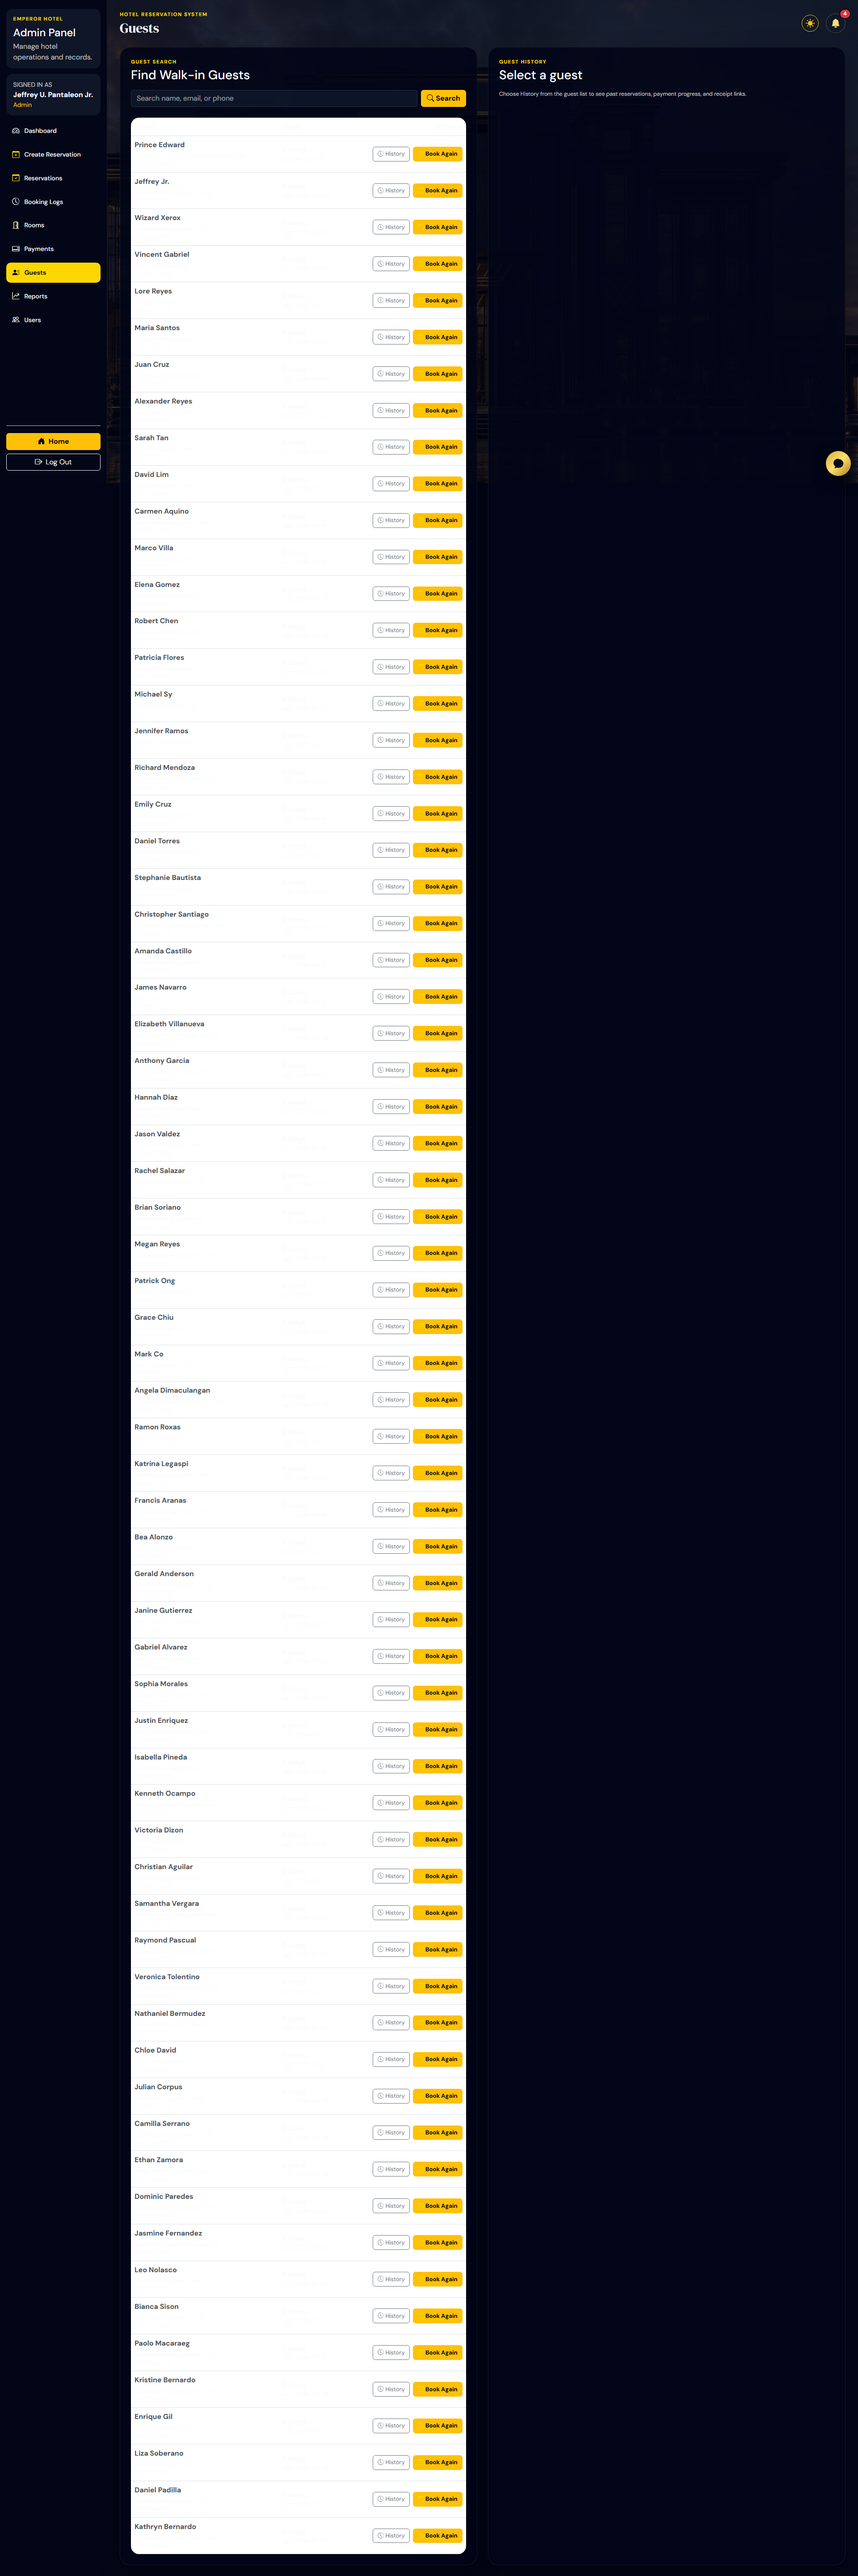
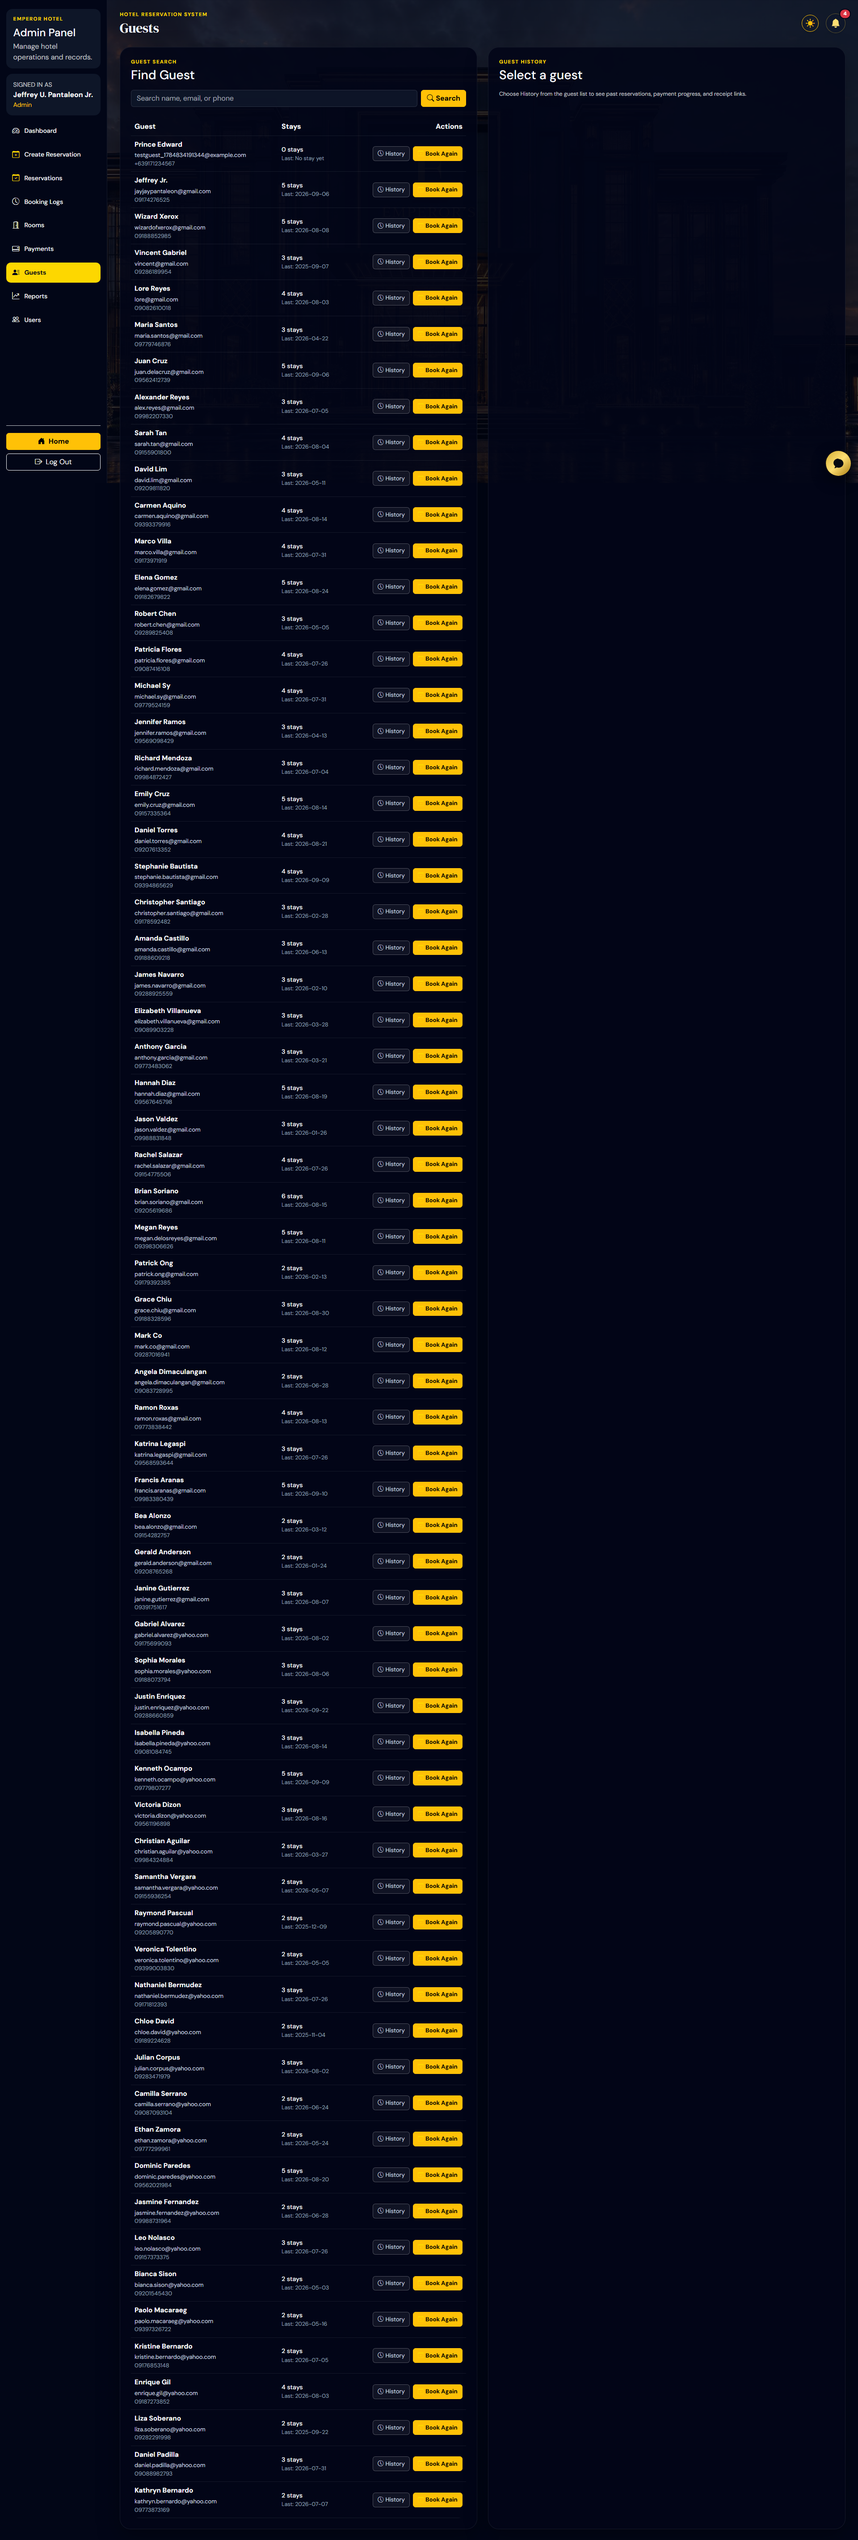
fix: remove :focus from sidebar yellow background, rename heading to Find Guest, and fix Dark Mode table text contrast

diff --git a/public/assets/css/admin/guests.css b/public/assets/css/admin/guests.css
@@ -4,16 +4,58 @@
     align-items: stretch;
 }
 
+.guest-name-text {
+    font-weight: 600;
+    font-size: 0.95rem;
+}
+
 .guest-email-text {
     word-break: break-all;
     font-size: 0.82rem;
     line-height: 1.35;
-    opacity: 0.85;
 }
 
 .guest-phone-text {
     font-size: 0.8rem;
-    opacity: 0.75;
+}
+
+.guest-stay-text {
+    font-weight: 500;
+    font-size: 0.88rem;
+}
+
+.guest-stay-subtext {
+    font-size: 0.78rem;
+}
+
+/* Dark Mode Typography (Default) */
+.guest-name-text,
+.guest-stay-text {
+    color: #f8fafc;
+}
+
+.guest-email-text {
+    color: #cbd5e1;
+}
+
+.guest-phone-text,
+.guest-stay-subtext {
+    color: #94a3b8;
+}
+
+/* Light Mode Typography */
+body.light-mode .guest-name-text,
+body.light-mode .guest-stay-text {
+    color: #0f172a !important;
+}
+
+body.light-mode .guest-email-text {
+    color: #475569 !important;
+}
+
+body.light-mode .guest-phone-text,
+body.light-mode .guest-stay-subtext {
+    color: #64748b !important;
 }
 
 .guest-actions-cell {
@@ -38,26 +80,26 @@
 }
 
 /* Light & Dark Mode Compatibility for Action Buttons */
-[data-bs-theme="light"] .guest-actions-group .btn-outline-secondary {
-    color: #475569;
-    border-color: #cbd5e1;
-    background-color: #f8fafc;
+body.light-mode .guest-actions-group .btn-outline-secondary {
+    color: #475569 !important;
+    border-color: #cbd5e1 !important;
+    background-color: #f8fafc !important;
 }
 
-[data-bs-theme="light"] .guest-actions-group .btn-outline-secondary:hover {
-    color: #0f172a;
-    border-color: #94a3b8;
-    background-color: #e2e8f0;
+body.light-mode .guest-actions-group .btn-outline-secondary:hover {
+    color: #0f172a !important;
+    border-color: #94a3b8 !important;
+    background-color: #e2e8f0 !important;
 }
 
-[data-bs-theme="dark"] .guest-actions-group .btn-outline-secondary {
+.guest-actions-group .btn-outline-secondary {
     color: #cbd5e1;
-    border-color: rgba(255, 255, 255, 0.2);
-    background-color: rgba(255, 255, 255, 0.05);
+    border-color: rgba(255, 255, 255, 0.25);
+    background-color: rgba(255, 255, 255, 0.06);
 }
 
-[data-bs-theme="dark"] .guest-actions-group .btn-outline-secondary:hover {
+.guest-actions-group .btn-outline-secondary:hover {
     color: #ffffff;
-    border-color: rgba(255, 255, 255, 0.4);
-    background-color: rgba(255, 255, 255, 0.12);
+    border-color: rgba(255, 255, 255, 0.45);
+    background-color: rgba(255, 255, 255, 0.15);
 }

diff --git a/public/assets/css/app.css b/public/assets/css/app.css
@@ -211,17 +211,20 @@ td.small.text-muted {
 }
 
 .sidebar-link:hover,
-.sidebar-link.active,
-.sidebar-link:focus {
+.sidebar-link.active {
     color: #020617 !important;
     background: #fdd700 !important;
     font-weight: 700 !important;
 }
 
 .sidebar-link:hover i,
-.sidebar-link.active i,
-.sidebar-link:focus i {
+.sidebar-link.active i {
     color: #020617 !important;
+}
+
+.sidebar-link:focus {
+    outline: none;
+    box-shadow: none;
 }
 
 .content-panel {
@@ -899,16 +902,14 @@ body.light-mode .sidebar-link i {
 }
 
 body.light-mode .sidebar-link:hover,
-body.light-mode .sidebar-link.active,
-body.light-mode .sidebar-link:focus {
+body.light-mode .sidebar-link.active {
     color: #0f172a !important;
     background: #fdd700 !important;
     font-weight: 700 !important;
 }
 
 body.light-mode .sidebar-link:hover i,
-body.light-mode .sidebar-link.active i,
-body.light-mode .sidebar-link:focus i {
+body.light-mode .sidebar-link.active i {
     color: #0f172a !important;
 }
 

diff --git a/public/admin/guests.php b/public/admin/guests.php
@@ -23,14 +23,14 @@ renderAdminLayoutStart('Guests', 'guests', $currentAdmin, ['../assets/css/admin/
     <div class="col-xl-6">
         <div class="panel-card p-4 h-100">
             <p class="eyebrow mb-1">Guest Search</p>
-            <h3 class="mb-3">Find Walk-in Guests</h3>
+            <h3 class="mb-3">Find Guest</h3>
             <form method="get" class="d-flex gap-2 mb-4">
                 <input class="form-control" name="search" type="search" value="<?php echo e($searchTerm); ?>" placeholder="Search name, email, or phone">
                 <button class="btn btn-warning fw-semibold text-nowrap" type="submit"><i class="bi bi-search me-1"></i>Search</button>
             </form>
 
             <div class="table-responsive">
-                <table class="table align-middle mb-0">
+                <table class="table table-dark-soft align-middle mb-0">
                     <thead>
                         <tr>
                             <th>Guest</th>
@@ -41,26 +41,26 @@ renderAdminLayoutStart('Guests', 'guests', $currentAdmin, ['../assets/css/admin/
                     <tbody>
                         <?php if (!$guests): ?>
                             <tr>
-                                <td colspan="3" class="text-light-emphasis text-center py-4">No guests found.</td>
+                                <td colspan="3" class="guest-phone-text text-center py-4">No guests found.</td>
                             </tr>
                         <?php endif; ?>
                         <?php foreach ($guests as $guest): ?>
                             <tr>
                                 <td>
-                                    <div class="fw-semibold text-dark-emphasis mb-1"><?php echo e($guest['first_name'] . ' ' . $guest['last_name']); ?></div>
+                                    <div class="guest-name-text mb-1"><?php echo e($guest['first_name'] . ' ' . $guest['last_name']); ?></div>
                                     <?php if ($guest['email']): ?>
-                                        <div class="guest-email-text text-muted"><?php echo e($guest['email']); ?></div>
+                                        <div class="guest-email-text"><?php echo e($guest['email']); ?></div>
                                     <?php endif; ?>
                                     <?php if ($guest['phone']): ?>
-                                        <div class="guest-phone-text text-muted"><?php echo e($guest['phone']); ?></div>
+                                        <div class="guest-phone-text"><?php echo e($guest['phone']); ?></div>
                                     <?php endif; ?>
                                     <?php if (!$guest['email'] && !$guest['phone']): ?>
-                                        <div class="guest-phone-text text-muted font-italic">No contact info</div>
+                                        <div class="guest-phone-text font-italic">No contact info</div>
                                     <?php endif; ?>
                                 </td>
                                 <td class="text-nowrap">
-                                    <div class="fw-medium mb-0.5"><?php echo e((int) $guest['reservation_count']); ?> stay<?php echo (int)$guest['reservation_count'] === 1 ? '' : 's'; ?></div>
-                                    <small class="text-muted d-block" style="font-size: 0.78rem;">Last: <?php echo e($guest['last_stay'] ?: 'No stay yet'); ?></small>
+                                    <div class="guest-stay-text fw-medium mb-0.5"><?php echo e((int) $guest['reservation_count']); ?> stay<?php echo (int)$guest['reservation_count'] === 1 ? '' : 's'; ?></div>
+                                    <div class="guest-stay-subtext">Last: <?php echo e($guest['last_stay'] ?: 'No stay yet'); ?></div>
                                 </td>
                                 <td class="text-end guest-actions-cell">
                                     <div class="guest-actions-group">
